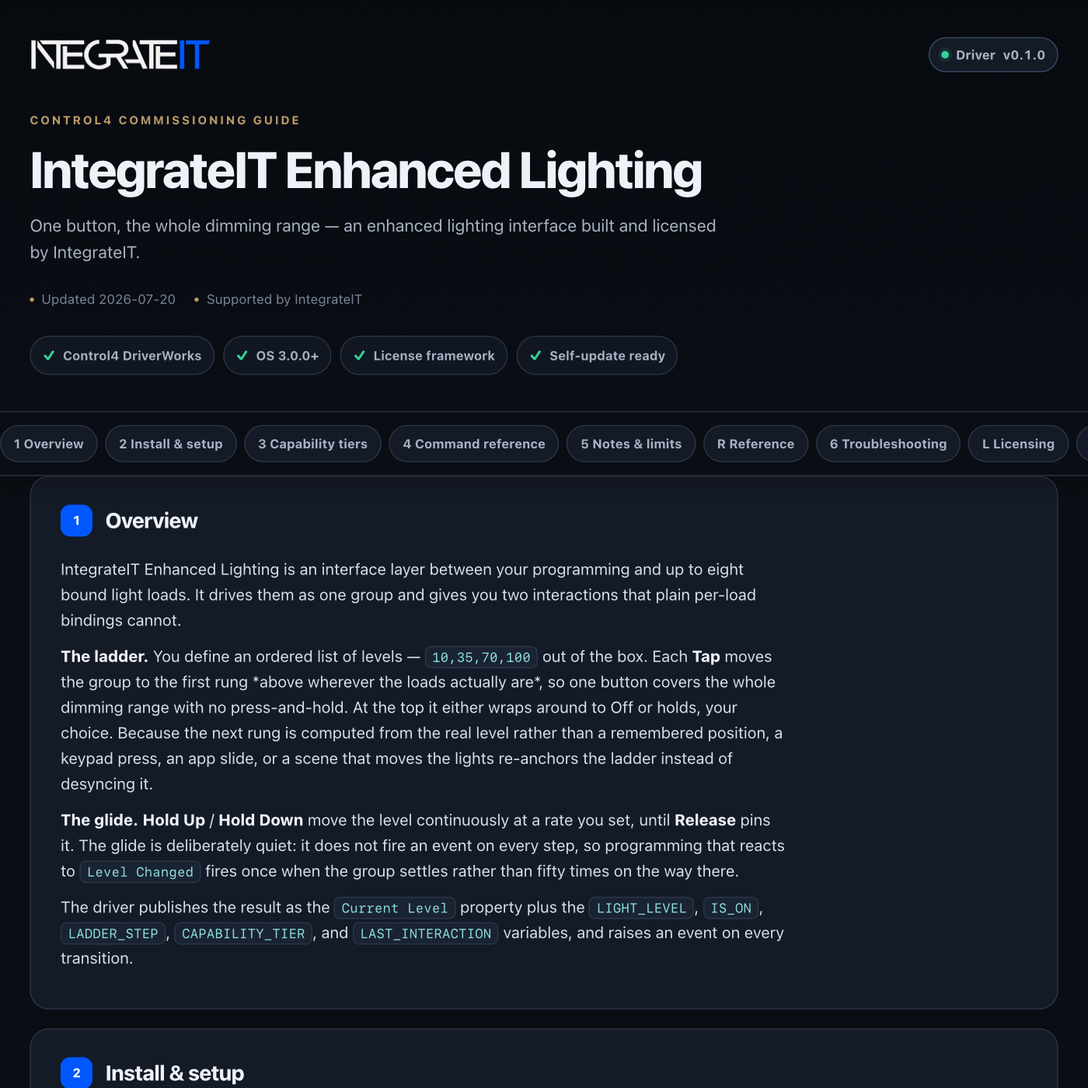
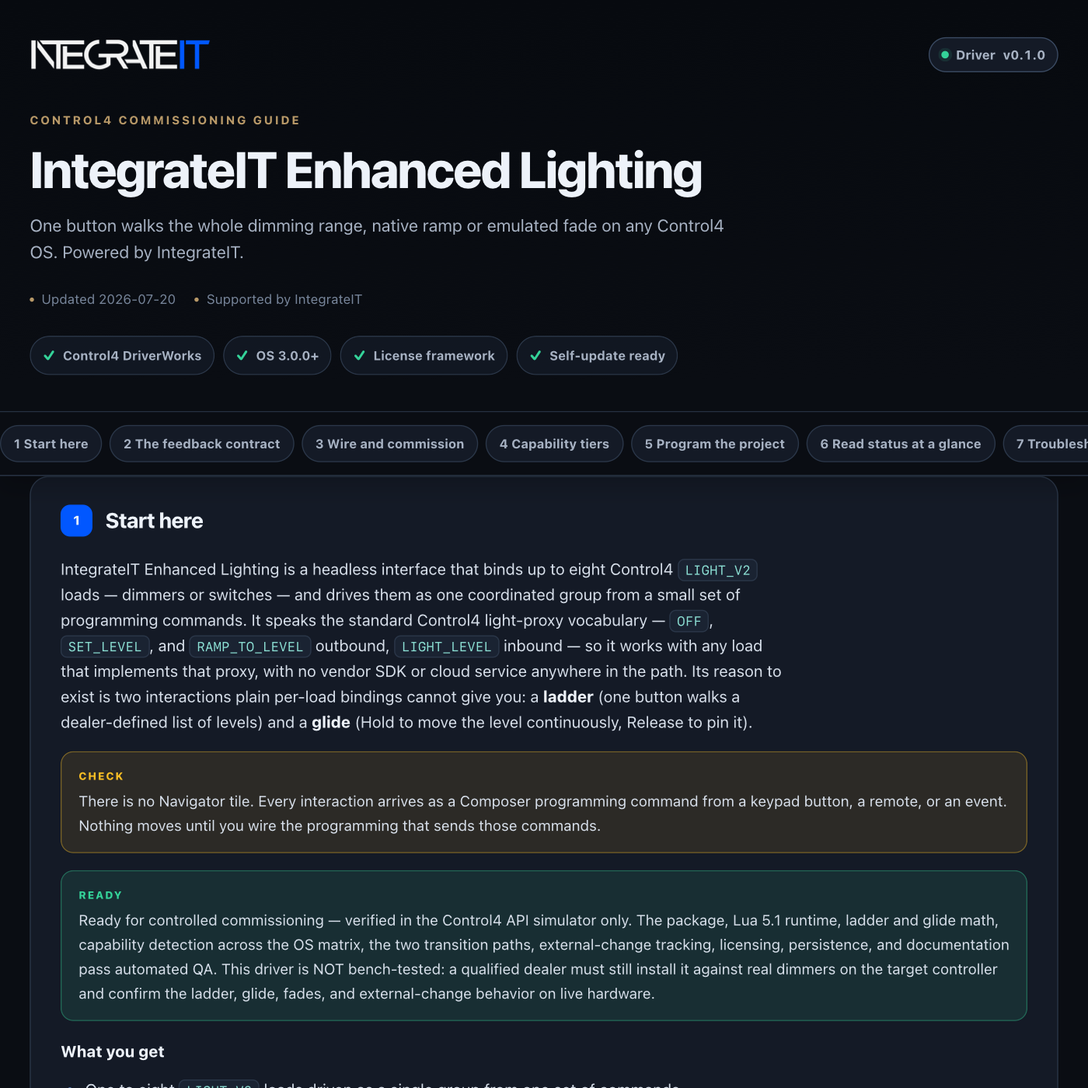
control4: publish driver channel (integrateit_enhanced_lighting 0.1.1)

diff --git a/control4/integrateit_enhanced_lighting/documentation.html b/control4/integrateit_enhanced_lighting/documentation.html
@@ -179,13 +179,13 @@ td code{white-space:normal}
     <div class="wrap">
       <div class="brandbar">
[1 lines of base64/hex data omitted]
-        <span class="version"><span class="word">Driver</span> v0.1.0</span>
+        <span class="version"><span class="word">Driver</span> v0.1.1</span>
       </div>
       <p class="eyebrow">Control4 commissioning guide</p>
       <h1>IntegrateIT Enhanced Lighting</h1>
-      <p class="sub">One button, the whole dimming range — an enhanced lighting interface built and licensed by IntegrateIT.</p>
+      <p class="sub">One button walks the whole dimming range, native ramp or emulated fade on any Control4 OS. Powered by IntegrateIT.</p>
       <div class="meta">
-        <span>Updated 2026-07-20</span>
+        <span>Updated 2026-07-26</span>
         <span>Supported by IntegrateIT</span>
       </div>
       <div class="readiness" aria-label="Driver capabilities">
@@ -198,41 +198,68 @@ td code{white-space:normal}
   </header>
 
   <div class="toc-wrap">
-    <nav class="toc wrap" aria-label="Documentation sections"><a href="#overview">1 Overview</a><a href="#install">2 Install &amp; setup</a><a href="#tiers">3 Capability tiers</a><a href="#commands">4 Command reference</a><a href="#notes">5 Notes &amp; limits</a><a href="#reference">R Reference</a><a href="#troubleshooting">6 Troubleshooting</a><a href="#licensing">L Licensing</a><a href="#updates">U Automatic updates</a><a href="#changelog">V Version history</a></nav>
+    <nav class="toc wrap" aria-label="Documentation sections"><a href="#overview">1 Start here</a><a href="#feedback">2 The feedback contract</a><a href="#setup">3 Wire and commission</a><a href="#tiers">4 Capability tiers</a><a href="#programming">5 Program the project</a><a href="#status">6 Read status at a glance</a><a href="#troubleshooting">7 Troubleshoot methodically</a><a href="#trust">8 Ownership, privacy, and licensing</a><a href="#reference">R Reference</a><a href="#licensing">L Licensing</a><a href="#updates">U Automatic updates</a><a href="#changelog">V Version history</a></nav>
   </div>
 
   <main class="wrap">
     <section class="card" id="overview" data-card="overview">
-  <h2><span class="n">1</span> Overview</h2>
-  <p>IntegrateIT Enhanced Lighting is an interface layer between your programming and up to eight bound light loads. It drives them as one group and gives you two interactions that plain per-load bindings cannot.</p>
-  <p><b>The ladder.</b> You define an ordered list of levels — <code>10,35,70,100</code> out of the box. Each <b>Tap</b> moves the group to the first rung *above wherever the loads actually are*, so one button covers the whole dimming range with no press-and-hold. At the top it either wraps around to Off or holds, your choice. Because the next rung is computed from the real level rather than a remembered position, a keypad press, an app slide, or a scene that moves the lights re-anchors the ladder instead of desyncing it.</p>
-  <p><b>The glide.</b> <b>Hold Up</b> / <b>Hold Down</b> move the level continuously at a rate you set, until <b>Release</b> pins it. The glide is deliberately quiet: it does not fire an event on every step, so programming that reacts to <code>Level Changed</code> fires once when the group settles rather than fifty times on the way there.</p>
-  <p>The driver publishes the result as the <code>Current Level</code> property plus the <code>LIGHT_LEVEL</code>, <code>IS_ON</code>, <code>LADDER_STEP</code>, <code>CAPABILITY_TIER</code>, and <code>LAST_INTERACTION</code> variables, and raises an event on every transition.</p>
+  <h2><span class="n">1</span> Start here</h2>
+  <p>IntegrateIT Enhanced Lighting is a headless interface that binds up to eight Control4 <code>LIGHT_V2</code> loads — dimmers or switches — and drives them as one coordinated group from a small set of programming commands. It speaks the standard Control4 light-proxy vocabulary — <code>OFF</code>, <code>SET_LEVEL</code>, and <code>RAMP_TO_LEVEL</code> outbound, <code>LIGHT_LEVEL</code> inbound — so it works with any load that implements that proxy, with no vendor SDK or cloud service anywhere in the path. Its reason to exist is two interactions plain per-load bindings cannot give you: a <b>ladder</b> (one button walks a dealer-defined list of levels) and a <b>glide</b> (Hold to move the level continuously, Release to pin it).</p>
+  <div class="note warn">There is no Navigator tile. Every interaction arrives as a Composer programming command from a keypad button, a remote, or an event. Nothing moves until you wire the programming that sends those commands.</div>
+  <div class="note good">Ready for controlled commissioning — verified in the Control4 API simulator only. The package, Lua 5.1 runtime, ladder and glide math, capability detection across the OS matrix, the two transition paths, external-change tracking, licensing, persistence, and documentation pass automated QA. This driver is NOT bench-tested: a qualified dealer must still install it against real dimmers on the target controller and confirm the ladder, glide, fades, and external-change behavior on live hardware.</div>
+  <p><b>What you get</b></p>
+  <ul>
+    <li>One to eight <code>LIGHT_V2</code> loads driven as a single group from one set of commands</li>
+    <li>The ladder: each <b>Tap</b> moves to the first level above where the loads actually are, then wraps to Off or holds at the top</li>
+    <li>The glide: <b>Hold Up</b> / <b>Hold Down</b> ramp at a set rate until <b>Release</b> pins the level</li>
+    <li><b>Nudge Up</b> / <b>Nudge Down</b>, <b>Recall Favorite</b>, <b>All On</b>, <b>All Off</b> for the rest of the range</li>
+    <li>Version-capability detection: a native <code>RAMP_TO_LEVEL</code> on OS 3.3.0+, a driver-emulated stepped fade below it</li>
+    <li>External-change tracking, so a keypad, app, or scene re-anchors the ladder instead of desyncing it</li>
+    <li>Seven events plus five variables (<code>LIGHT_LEVEL</code>, <code>IS_ON</code>, <code>LADDER_STEP</code>, <code>CAPABILITY_TIER</code>, <code>LAST_INTERACTION</code>) for programming</li>
+    <li>The group level survives a controller reboot</li>
+  </ul>
 </section>
 
-<section class="card" id="install" data-card="install">
-  <h2><span class="n">2</span> Install &amp; setup</h2>
+<section class="card" id="feedback" data-card="feedback">
+  <h2><span class="n">2</span> The feedback contract</h2>
+  <p>This interface keeps one belief about where the group is — the <code>Current Level</code> property and the <code>LIGHT_LEVEL</code> variable. That belief is set only two ways, and it never invents a third.</p>
+  <ul>
+    <li><b>A level it pushed.</b> When you Tap, Nudge, glide, or recall, the interface commands the loads and adopts the level it sent. Any <code>LIGHT_LEVEL</code> report matching a level it just pushed — including every step of a Legacy emulated fade — is its own echo and is absorbed silently.</li>
+    <li><b>A level a load reports that it did not push.</b> A keypad press, an app slide, or a scene moves the loads without going through this interface. That report is a real external change: the interface adopts it, publishes it, fires <b>External Change Detected</b>, and the next <b>Tap</b> anchors off it rather than off a remembered rung. This re-anchoring is the whole point of the ladder.</li>
+  </ul>
+  <p>Assumed versus observed, stated plainly:</p>
+  <ul>
+    <li>On the <b>Enhanced</b> tier the load owns the fade, so the interface pushes only the target level in one <code>RAMP_TO_LEVEL</code> and does not track each rung the dimmer passes through on the way there.</li>
+    <li>Echo suppression is bounded in <b>time</b> — a pushed level stays a plausible echo only for the fade time plus an eight-second grace. A load that drops off mid-transition and never echoes cannot blind external-change detection at that level forever; once the window closes, a report at that level is an external change again.</li>
+    <li>The <b>first</b> level a load reports after the driver loads or the controller restarts is a bind-time snapshot: the interface learning where the room is, not watching it change. It is adopted silently — no <b>Turned On</b>, no <b>Level Changed</b>, no <b>External Change Detected</b> — so programming bound to those events does not re-run on every Director restart. Every report after that baseline is a live change.</li>
+    <li>The group level is saved and restored across a reboot, so programming that reads <code>LIGHT_LEVEL</code> right after a restart sees the room rather than 0. The restored value is an <b>assumption</b> until a load reports; the first report that disagrees corrects it quietly, as a baseline, with no external-change event.</li>
+  </ul>
+</section>
+
+<section class="card" id="setup" data-card="setup">
+  <h2><span class="n">3</span> Wire and commission</h2>
   <ol class="steps">
-    <li>Add the driver to the room. In Connections, bind each dimmer or switch to <code>Load 1</code> … <code>Load N</code>.</li>
-    <li>Set <code>Number of Loads</code> to how many you wired. Bindings above that number are ignored.</li>
-    <li>Set <code>Level Ladder</code> to the levels you want each Tap to walk, comma-separated, and pick <code>Ladder Wrap</code>. Entries outside 1-100 and duplicates are dropped; an unusable list falls back to <code>10,35,70,100</code>.</li>
-    <li>Set <code>Fade Time (ms)</code> for Tap / Nudge / Favorite / All On / All Off transitions, and <code>Glide Rate (%/sec)</code> for the holds.</li>
-    <li>Set <code>Minimum Level (%)</code> to the lowest level that still looks lit. Nudging or gliding below it turns the group off instead of parking it somewhere invisible.</li>
-    <li>Leave <code>Capability Mode</code> on <b>Auto</b> unless you have a reason not to — see *Capability tiers* below. Check <code>Detected OS Version</code> and <code>Capability Tier</code> after adding the driver.</li>
-    <li>In Programming, send <code>Tap</code>, <code>Hold Up</code> / <code>Hold Down</code> / <code>Release</code>, <code>Nudge Up</code> / <code>Nudge Down</code>, <code>Recall Favorite</code>, <code>All On</code>, or <code>All Off</code> from your keypad buttons, remote, or any event.</li>
-    <li>Optionally enter a <code>License Key</code> (see Licensing) — the driver runs in Lenient mode without one.</li>
+    <li>Add <b>IntegrateIT Enhanced Lighting</b> to the room. In Connections, bind each dimmer or switch to <b>Load 1</b> … <b>Load 8</b>.</li>
+    <li>Set <b>Number of Loads</b> to how many you wired. Bindings above that number are ignored, and an unwired binding never reports.</li>
+    <li>Set <b>Level Ladder</b> to the levels each Tap should walk, comma-separated, low to high (default <code>10,35,70,100</code>). Entries outside 1-100 and duplicates are dropped and the list is sorted; an unusable list falls back to <code>10,35,70,100</code>. Pick <b>Ladder Wrap</b> — wrap to Off at the top, or hold at the top.</li>
+    <li>Set <b>Fade Time (ms)</b> for Tap / Nudge / Favorite / All On / All Off transitions, <b>Glide Rate (%/sec)</b> for the holds, <b>Nudge Step (%)</b>, and <b>Favorite Level (%)</b>.</li>
+    <li>Set <b>Minimum Level (%)</b> to the lowest level that still looks lit. Nudging or gliding below it turns the group off instead of parking it at an invisible level.</li>
+    <li>Leave <b>Capability Mode</b> on <b>Auto</b> unless a load misbehaves — see *Capability tiers*. After the driver loads, check <b>Detected OS Version</b> and <b>Capability Tier</b>.</li>
+    <li>Optionally set <b>License Enforcement</b> and enter a license key — the driver runs in Lenient mode without one (see *Ownership, privacy, and licensing*).</li>
+    <li>In Programming, send <b>Tap</b> from a keypad button and watch the group step up to the first ladder rung; <b>Tap</b> again and watch it climb. That first observed step proves the binding, the ladder, and the transition path in one action.</li>
   </ol>
+  <div class="note">Editing <b>Level Ladder</b>, <b>Number of Loads</b>, or <b>Ladder Wrap</b> live re-derives <code>LADDER_STEP</code> but deliberately does not move the lights — a configuration edit should not flick the room while you type.</div>
 </section>
 
 <section class="card" id="tiers" data-card="tiers">
-  <h2><span class="n">3</span> Capability tiers</h2>
-  <p>The driver reads the controller's OS version at load and again whenever you run <b>Detect Capabilities</b>, then picks how a transition is delivered:</p>
+  <h2><span class="n">4</span> Capability tiers</h2>
+  <p>The interface reads the controller's OS version when it loads and again on <b>Detect Capabilities</b>, then picks how each transition is delivered.</p>
   <table>
-    <tr><th>Tier</th><th>When it is chosen</th><th>What a transition sends</th></tr>
-    <tr><td><b>Enhanced</b></td><td>Detected OS 3.3.0 or newer, or <code>Capability Mode</code> pinned to *Enhanced (OS 3.3+)*</td><td>One <code>RAMP_TO_LEVEL</code> per load carrying the level and your fade time — the load owns the fade.</td></tr>
-    <tr><td><b>Legacy</b></td><td>Detected OS below 3.3.0, an unreadable version, or <code>Capability Mode</code> pinned to *Legacy*</td><td>A driver-emulated fade: timed <code>SET_LEVEL</code> steps that land exactly on the target. Nothing is assumed about how the load handles a ramp time.</td></tr>
+    <tr><th>Tier</th><th>Chosen when</th><th>A transition sends</th></tr>
+    <tr><td><b>Enhanced</b></td><td>Detected OS 3.3.0 or newer, or <b>Capability Mode</b> pinned to *Enhanced (OS 3.3+)*</td><td>One <code>RAMP_TO_LEVEL</code> per load carrying the target level and your fade time — the load owns the fade.</td></tr>
+    <tr><td><b>Legacy</b></td><td>Detected OS below 3.3.0, an unreadable version, or <b>Capability Mode</b> pinned to *Legacy*</td><td>A driver-emulated fade: timed <code>SET_LEVEL</code> steps that land exactly on the target. Nothing is assumed about how a load handles a ramp time.</td></tr>
   </table>
-  <p>Verified behaviour across the version matrix:</p>
+  <p>Verified across the version matrix:</p>
   <table>
     <tr><th>Reported OS</th><th>Resolved tier</th></tr>
     <tr><td>3.2.4 / 3.2.9</td><td>Legacy</td></tr>
@@ -241,45 +268,79 @@ td code{white-space:normal}
     <tr><td>4.x</td><td>Enhanced</td></tr>
     <tr><td>unreadable, malformed, or accessor missing</td><td>Legacy (the conservative fallback)</td></tr>
   </table>
-  <p><code>Detected OS Version</code> always reports what was actually read, even when <code>Capability Mode</code> overrides the tier — so you can see both what the controller said and what you told the driver to do.</p>
+  <p><b>Detected OS Version</b> always reports what was actually read, or <code>Undetected</code>, even when <b>Capability Mode</b> overrides the tier — so you can see both what the controller said and what you told the driver to do. A tier that resolves to something different from the one in force fires <b>Capability Tier Changed</b>; the boot publish does not.</p>
+  <p>Every immediate push of level 0 — a zero <b>Fade Time</b>, a glide down through the floor, <b>Resync Loads</b>, and the final landing step of a Legacy emulated fade — leaves as an explicit <code>OFF</code> rather than "level 0 but on", so a switch-only load actually opens. The one exception is a *faded* move to 0 on the <b>Enhanced</b> tier: that goes out as a single <code>RAMP_TO_LEVEL</code> to <code>0</code>, because on Enhanced the load owns the whole fade, including the fade to dark.</p>
 </section>
 
-<section class="card" id="commands" data-card="commands">
-  <h2><span class="n">4</span> Command reference</h2>
+<section class="card" id="programming" data-card="programming">
+  <h2><span class="n">5</span> Program the project</h2>
+  <p>Every interaction is a programming command; every reaction is an event or a variable.</p>
   <table>
-    <tr><th>Programming command</th><th>What it does</th></tr>
-    <tr><td>Tap</td><td>Move to the first ladder rung above the current level; at the top, wrap to Off or hold, per <code>Ladder Wrap</code>.</td></tr>
-    <tr><td>Nudge Up / Nudge Down</td><td>Move by <code>Nudge Step</code>. Nudging down past <code>Minimum Level</code> turns the group off; nudging up from off starts at <code>Minimum Level</code>.</td></tr>
-    <tr><td>Hold Up / Hold Down</td><td>Start gliding at <code>Glide Rate</code> until Release, or until the group hits 100 / off.</td></tr>
-    <tr><td>Release</td><td>Stop the glide and pin the level reached.</td></tr>
-    <tr><td>Recall Favorite</td><td>Jump straight to <code>Favorite Level</code>.</td></tr>
-    <tr><td>All On / All Off</td><td>Go to the top of the ladder, or off.</td></tr>
+    <tr><th>Command</th><th>What it does</th></tr>
+    <tr><td><b>Tap</b></td><td>Move to the first ladder rung above the current level; at the top, wrap to Off or hold, per <b>Ladder Wrap</b>.</td></tr>
+    <tr><td><b>Nudge Up</b> / <b>Nudge Down</b></td><td>Move by <b>Nudge Step</b>. Down past <b>Minimum Level</b> turns the group off; up from off jumps to the greater of <b>Minimum Level</b> and one <b>Nudge Step</b>, so it never lands below the lit floor.</td></tr>
+    <tr><td><b>Hold Up</b> / <b>Hold Down</b></td><td>Glide at <b>Glide Rate</b> until <b>Release</b>, or until the group hits 100 / off.</td></tr>
+    <tr><td><b>Release</b></td><td>Stop the glide and pin the level reached.</td></tr>
+    <tr><td><b>Recall Favorite</b></td><td>Jump straight to <b>Favorite Level</b>.</td></tr>
+    <tr><td><b>All On</b> / <b>All Off</b></td><td>Go to the top of the ladder, or off.</td></tr>
   </table>
-  <table>
-    <tr><th>Action</th><th>What it does</th></tr>
-    <tr><td>Detect Capabilities</td><td>Re-read the controller OS version and re-resolve the tier.</td></tr>
-    <tr><td>Resync Loads</td><td>Re-send the believed level at every wired load. Changes no state and fires no events — use it after a load has been power-cycled.</td></tr>
-    <tr><td>Print Configuration</td><td>Print the loads, parsed ladder, level, tier, and detected OS to the Lua output window.</td></tr>
-  </table>
-  <p><b>Events:</b> *Turned On*, *Turned Off*, *Level Changed*, *Ladder Wrapped*, *Favorite Recalled*, *External Change Detected*, *Capability Tier Changed*. <b>Variables:</b> <code>LIGHT_LEVEL</code>, <code>IS_ON</code>, <code>LADDER_STEP</code>, <code>CAPABILITY_TIER</code>, <code>LAST_INTERACTION</code>.</p>
-</section>
-
-<section class="card" id="notes" data-card="notes">
-  <h2><span class="n">5</span> Notes &amp; limits</h2>
+  <p>Actions (the Actions tab, not events): <b>Detect Capabilities</b> re-reads the OS and re-resolves the tier; <b>Resync Loads</b> re-sends the believed level at every wired load without changing the level or firing events (use it after a load is power-cycled); <b>Print Configuration</b> writes the live state to the Lua output window.</p>
+  <p><b>Events:</b> Turned On, Turned Off, Level Changed, Ladder Wrapped, Favorite Recalled, External Change Detected, Capability Tier Changed. <b>Variables:</b> <code>LIGHT_LEVEL</code> (0-100), <code>IS_ON</code>, <code>LADDER_STEP</code>, <code>CAPABILITY_TIER</code>, <code>LAST_INTERACTION</code>.</p>
+  <p>Event timing you can rely on:</p>
   <ul>
-    <li>Transition events fire when the interface <b>commits</b> a level — the start of the fade — not when the last fade step lands. That is the moment programming cares about, and it keeps event timing identical on both tiers.</li>
-    <li>The glide fires no events while it runs. Exactly one <code>Level Changed</code> (plus <code>Turned On</code> / <code>Turned Off</code> if the group crossed off) fires when Release, or the top/bottom rail, settles it.</li>
-    <li><code>LADDER_STEP</code> is the rung the group is sitting on, or <code>0</code> when it is off or between rungs — which is normal right after an external change.</li>
-    <li>Level reports the driver can account for (a level it just pushed, including mid-fade steps) are treated as its own echo. A level it did not command is an external change: the driver adopts it, fires *External Change Detected*, and the next Tap anchors off it. An external change that lands exactly on a level the driver pushed moments earlier is indistinguishable from an echo and is absorbed silently — but only for a few seconds after the transition. Once that window closes, a report at that level is an external change again, so a load that never echoed cannot mask a real one indefinitely.</li>
-    <li>The <b>first</b> level a load reports after the driver loads or the controller restarts is a bind-time snapshot: the driver is learning where the room is, not watching it change. It is adopted silently — no *Turned On*, no *Level Changed*, no *External Change Detected*. Programming bound to those events therefore does not re-run on every Director restart. Every report after that baseline is treated as a live change.</li>
-    <li>Editing <code>Level Ladder</code>, <code>Number of Loads</code>, or <code>Ladder Wrap</code> live re-derives <code>LADDER_STEP</code> but deliberately does <b>not</b> move the lights — configuration edits should not flick the room while you type.</li>
-    <li>The group level is saved and restored across a controller reboot, so programming that reads <code>LIGHT_LEVEL</code> right after a restart sees the room rather than 0. The restored value is an assumption until a load reports; the first report that disagrees corrects it quietly, as the baseline described above.</li>
-    <li>Starting a second Hold replaces the first silently; a discrete interaction (Tap, Nudge, Favorite, All On/Off) during a hold ends the hold and wins; and a new interaction mid-fade cancels the fade in flight — the group is never dragged toward a stale target.</li>
-    <li>This driver has no Navigator tile. Every interaction arrives as a Composer programming command.</li>
+    <li>A transition event fires when the interface <b>commits</b> the level — the start of the fade, not when the last step lands — so timing is identical on both tiers.</li>
+    <li>The glide fires nothing while it runs. Exactly one <b>Level Changed</b> (plus <b>Turned On</b> / <b>Turned Off</b> if the group crossed off) fires when Release, or the top/bottom rail, settles it.</li>
+    <li>A discrete interaction during a hold ends the hold and wins; a second Hold replaces the first silently; a new interaction mid-fade cancels the fade in flight — the group is never dragged toward a stale target.</li>
   </ul>
+  <p>Recipes:</p>
+  <ul>
+    <li><b>One-button dimming.</b> Wire a keypad button press to <b>Tap</b>. Each press climbs the ladder; at the top it wraps to Off (or holds), so one button covers the whole range with no press-and-hold.</li>
+    <li><b>Press-and-hold ramp.</b> Wire button press to <b>Hold Up</b> and button release to <b>Release</b> (and a second button to <b>Hold Down</b> / <b>Release</b>). Hang your "lights settled" logic off <b>Level Changed</b>, which fires once when the glide stops — not fifty times on the way.</li>
+    <li><b>React to a manual change.</b> When <b>External Change Detected</b> fires, read <code>LIGHT_LEVEL</code> and log it or adjust a scene: you know the room was moved by a keypad, app, or scene rather than by this interface, and the next <b>Tap</b> is already anchored to the new level.</li>
+  </ul>
+</section>
+
+<section class="card" id="status" data-card="status">
+  <h2><span class="n">6</span> Read status at a glance</h2>
+  <table>
+    <tr><th>Property / variable</th><th>Healthy result</th><th>What it means otherwise</th></tr>
+    <tr><td><code>Current Level</code> / <code>LIGHT_LEVEL</code></td><td>The level the group is at, 0-100</td><td>An assumption between load reports; corrected by the next report that disagrees</td></tr>
+    <tr><td><code>IS_ON</code></td><td><code>true</code> when lit, <code>false</code> at 0</td><td>Safe to drive on/off automation from directly</td></tr>
+    <tr><td><code>LADDER_STEP</code></td><td>The rung number the group sits on</td><td><code>0</code> when off or between rungs — normal right after an external change</td></tr>
+    <tr><td><code>Capability Tier</code> / <code>CAPABILITY_TIER</code></td><td>Enhanced or Legacy</td><td>Unknown only before the first detection; check <b>Detected OS Version</b></td></tr>
+    <tr><td><code>Detected OS Version</code></td><td>The controller OS, or <code>Undetected</code></td><td>Undetected on a 3.3+ system → pin <b>Capability Mode</b> to Enhanced</td></tr>
+    <tr><td><code>Last Interaction</code> / <code>LAST_INTERACTION</code></td><td>The most recent action, with a timestamp</td><td>Reads <code>Baseline …</code> or <code>External change …</code> when a load moved outside the interface</td></tr>
+    <tr><td><code>License Status</code></td><td>Activated, or Lenient during commissioning</td><td>Enter a key before selecting Strict enforcement</td></tr>
+  </table>
+  <p><b>Print Configuration</b> writes the loads, parsed ladder, current level and rung, favorite / nudge / minimum, resolved tier, fade and glide rates, and the detected OS to the Lua output window. It prints no license key.</p>
+</section>
+
+<section class="card" id="troubleshooting" data-card="troubleshooting">
+  <h2><span class="n">7</span> Troubleshoot methodically</h2>
+  <table>
+    <tr><th>Symptom</th><th>Likely cause</th><th>Fix</th></tr>
+    <tr><td>Nothing happens on any command</td><td>Strict enforcement on an unlicensed controller</td><td>Check <code>License Status</code>; Lenient mode keeps control enabled without a key</td></tr>
+    <tr><td>Nothing happens, licensing is fine</td><td>No programming wired to the commands — there is no Navigator tile</td><td>Wire a keypad button or event to <b>Tap</b> / <b>Hold Up</b> / etc.</td></tr>
+    <tr><td><code>Detected OS Version</code> reads Undetected</td><td>The controller exposes no readable version accessor</td><td>Harmless — Auto falls back to Legacy. On a 3.3+ system, pin <b>Capability Mode</b> to *Enhanced (OS 3.3+)*</td></tr>
+    <tr><td>Fades look stepped or jumpy</td><td>Legacy emulation on a long fade, or a coarsely dimming load</td><td>Shorten <b>Fade Time</b>, or pin <b>Capability Mode</b> to *Enhanced (OS 3.3+)* if the OS supports it</td></tr>
+    <tr><td>A load ignores the fade entirely</td><td>The load does not implement <code>RAMP_TO_LEVEL</code></td><td>Pin <b>Capability Mode</b> to *Legacy* — that path only ever sends <code>OFF</code> / <code>SET_LEVEL</code></td></tr>
+    <tr><td>Tap seems to skip levels</td><td>The loads were moved externally; the ladder anchored to the real level</td><td>Working as designed — check <code>Last Interaction</code> for the external change</td></tr>
+    <tr><td>Some loads do not respond</td><td><b>Number of Loads</b> is lower than the bound slot</td><td>Raise <b>Number of Loads</b> to cover every wired binding</td></tr>
+    <tr><td>Lights never go fully off on a Nudge or glide down</td><td><b>Minimum Level (%)</b> is set high</td><td>The group turns off below the minimum; lower it for a dimmer floor</td></tr>
+    <tr><td>Driver and lights disagree after a power cycle</td><td>A load came back at a different level and has not reported</td><td>Run <b>Resync Loads</b>, or move the group once with any interaction</td></tr>
+  </table>
+  <div class="note">Turn on <b>Debug Mode → Print</b> to watch the resolved tier and every level push in the Lua output window.</div>
+  <p>If a symptom survives every check above, capture a <b>Print Configuration</b> and the Debug output and reach IntegrateIT support (contact details in the footer below).</p>
+</section>
+
+<section class="card" id="trust" data-card="trust">
+  <h2><span class="n">8</span> Ownership, privacy, and licensing</h2>
+  <p>This package is an original IntegrateIT interface built on the documented Control4 <code>LIGHT_V2</code> light-proxy contract (<code>OFF</code>, <code>SET_LEVEL</code>, <code>RAMP_TO_LEVEL</code>, and the <code>LIGHT_LEVEL</code> report). It bundles no other vendor's runtime, source code, brand assets, trial system, or license. Driver engineering, Control4 integration, documentation, QA, licensing, updates, and support are provided by IntegrateIT.</p>
+  <p>The interface drives your bound loads through the local Control4 proxy and sends nothing to any device vendor or cloud — no light levels, customer identity, project identity, or Control4 credentials leave the controller. The only credential it holds is the IntegrateIT license key, which is never written to the log and never printed by <b>Print Configuration</b>. The shared IntegrateIT license and update services use the controller identity, driver slug, version, configured license key, and update channel as documented in the reference below.</p>
+  <p>Lenient mode allows commissioning without an activated key and keeps <code>License Status</code> visible. Strict mode blocks all load control — and silences every device event, including off a load report — until the Ops Portal has minted and validated a key for that controller. Installing this package does not itself mint or activate a controller license.</p>
 <section class="card" id="reference" data-card="reference">
   <h2><span class="n">R</span> Reference</h2>
-  <p>Generated from the driver manifest at build time — always matches this build (v0.1.0).</p>
+  <p>Generated from the driver manifest at build time — always matches this build (v0.1.1).</p>
   <h3>Properties</h3>
   <table>
     <tr><th>Property</th><th>Type</th><th>Default</th><th>Description</th></tr>
@@ -350,22 +411,6 @@ td code{white-space:normal}
   </table>
 </section>
 </section>
-
-<section class="card" id="troubleshooting" data-card="troubleshooting">
-  <h2><span class="n">6</span> Troubleshooting</h2>
-  <table>
-    <tr><th>Symptom</th><th>Likely cause</th><th>Fix</th></tr>
-    <tr><td>Nothing happens</td><td>Strict enforcement + unlicensed</td><td>Check <code>License Status</code>; Lenient mode keeps control enabled without a key.</td></tr>
-    <tr><td><code>Detected OS Version</code> reads Undetected</td><td>The controller exposes no readable version accessor</td><td>Harmless — Auto falls back to Legacy. If the system is 3.3+, pin <code>Capability Mode</code> to *Enhanced (OS 3.3+)*.</td></tr>
-    <tr><td>Fades look stepped or jumpy</td><td>Legacy tier emulation on a long fade, or a load that dims coarsely</td><td>Shorten <code>Fade Time</code>, or pin <code>Capability Mode</code> to *Enhanced (OS 3.3+)* if the OS supports it.</td></tr>
-    <tr><td>A load ignores the fade entirely</td><td>The load does not implement <code>RAMP_TO_LEVEL</code></td><td>Pin <code>Capability Mode</code> to *Legacy* — that path only ever sends <code>OFF</code> / <code>SET_LEVEL</code>.</td></tr>
-    <tr><td>Tap seems to skip levels</td><td>The loads were moved externally; the ladder anchored to the real level</td><td>Working as designed. Check <code>Last Interaction</code> for the external change.</td></tr>
-    <tr><td>Some loads do not respond</td><td><code>Number of Loads</code> is lower than the bound slot</td><td>Raise <code>Number of Loads</code> to cover every wired binding.</td></tr>
-    <tr><td>Lights never go fully off on a Nudge/glide down</td><td><code>Minimum Level (%)</code> is set high</td><td>The group turns off below the minimum; lower it if you want a dimmer floor.</td></tr>
-    <tr><td>Driver and lights disagree after a power cycle</td><td>A load came back at a different level and has not reported</td><td>Run <b>Resync Loads</b>, or move the group once with any interaction.</td></tr>
-  </table>
-  <div class="note">Turn on <code>Debug Mode → Print</code> to watch the resolved tier and every level push in the Lua output window.</div>
-</section>
 <section class="card" id="licensing" data-card="licensing">
   <h2><span class="n">L</span> Licensing</h2>
   <p>This driver is licensed <b>per controller</b>. Each license key locks to one controller's
@@ -413,7 +458,9 @@ td code{white-space:normal}
     <section class="card" id="changelog" data-card="changelog">
   <h2><span class="n">V</span> Version history</h2>
   <div class="chg">
-    <div class="rel"><b>v0.1.0</b> <span class="pill green">current</span><span class="d">2026-07-20</span>
+    <div class="rel"><b>v0.1.1</b> <span class="pill green">current</span><span class="d">2026-07-26</span>
+      <ul><li>Documentation rebuilt to the IntegrateIT commissioning-guide standard: uniform sections, honest contracts, verified claim-by-claim against the code.</li></ul></div>
+    <div class="rel"><b>v0.1.0</b><span class="d">2026-07-20</span>
       <ul><li>First cut of the enhanced lighting interface: 1-8 LIGHT_V2 loads driven as one group.</li><li>Original ladder interaction — each Tap moves to the first rung above the group's real level, then wraps to Off or holds at the top.</li><li>Original glide interaction — Hold Up / Hold Down ramp at a configurable rate, Release pins the level, and the glide stays quiet so exactly one event settles the group.</li><li>Control4 version-capability detection: OS 3.3.0+ resolves to the Enhanced tier (one native RAMP_TO_LEVEL per load), everything below — and any controller with no readable version — resolves to the Legacy tier (driver-emulated stepped fade). Capability Mode pins either tier.</li><li>External-change tracking: a level a load reports that the driver did not command is adopted, published, and announced, so the ladder anchors to reality instead of desyncing. Echo suppression is bounded in time, so a load that never echoes cannot blind detection at that level.</li><li>Bind-time snapshots are absorbed silently: the first level a load reports after a driver load or Director restart establishes the baseline without firing Turned On / Level Changed / External Change Detected, so dealer programming does not re-run on every reboot.</li><li>The group level survives a controller reboot and is corrected quietly by the first load report that disagrees.</li><li>MAC-locked IntegrateIT licensing on every interaction AND on the load-report feedback path; under Strict enforcement an unlicensed controller drives no loads and fires no events at all.</li></ul></div>
   </div>
 </section>

diff --git a/control4/integrateit_enhanced_lighting/CHANGELOG.md b/control4/integrateit_enhanced_lighting/CHANGELOG.md
@@ -1,5 +1,8 @@
 # Changelog — IntegrateIT Enhanced Lighting
 
+## [0.1.1] - 2026-07-26
+- Documentation rebuilt to the IntegrateIT commissioning-guide standard: uniform sections, honest contracts, verified claim-by-claim against the code.
+
 ## [0.1.0] - 2026-07-20
 - First cut of the enhanced lighting interface: 1-8 LIGHT_V2 loads driven as one group.
 - Original ladder interaction — each Tap moves to the first rung above the group's real level, then wraps to Off or holds at the top.
